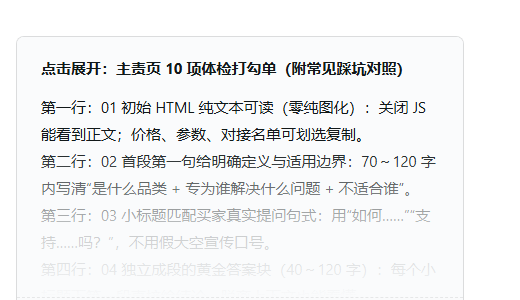
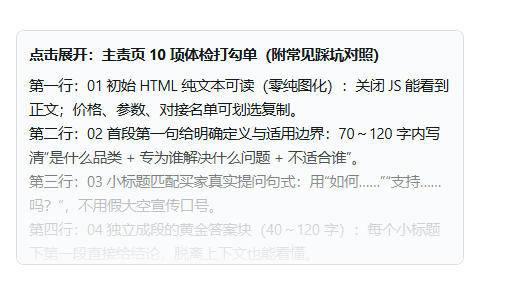
feat: 极简紧凑化details组件，去除冗余文字按钮改用全透明渐隐热区

diff --git a/README.md b/README.md
@@ -1,12 +1,14 @@
 # wechat-article-publisher
 
+::: lead[项目介绍：]
+将任意格式的文章直推微信草稿箱，（可选）言出法随一般地定制排版样式。适用于企业有固定品牌主视觉/tokens的文案运营同学，和想要打造个人IP的自媒体小伙伴。解决“写稿半小时，排版一小时”的痛点
+:::
+
 写微信公众号文章最烦的几件事：是排版和上传公众号草稿箱。
 
 有时排版比写文章还要费时间。
 
 这个项目可以把你的文章，直接推送到你的微信公众号的草稿箱中。按作者实际感受，写2-3篇稿子基本就可以完成最终的调试。
-
-格式粘进去很容易乱，用135、秀米等工具全乱、折叠块微信不支持 JS、改个错别字草稿箱又多一份重复草稿。这个工具就是给 AI Agent 准备的微信公众号发布利器。
 
 ---
 
